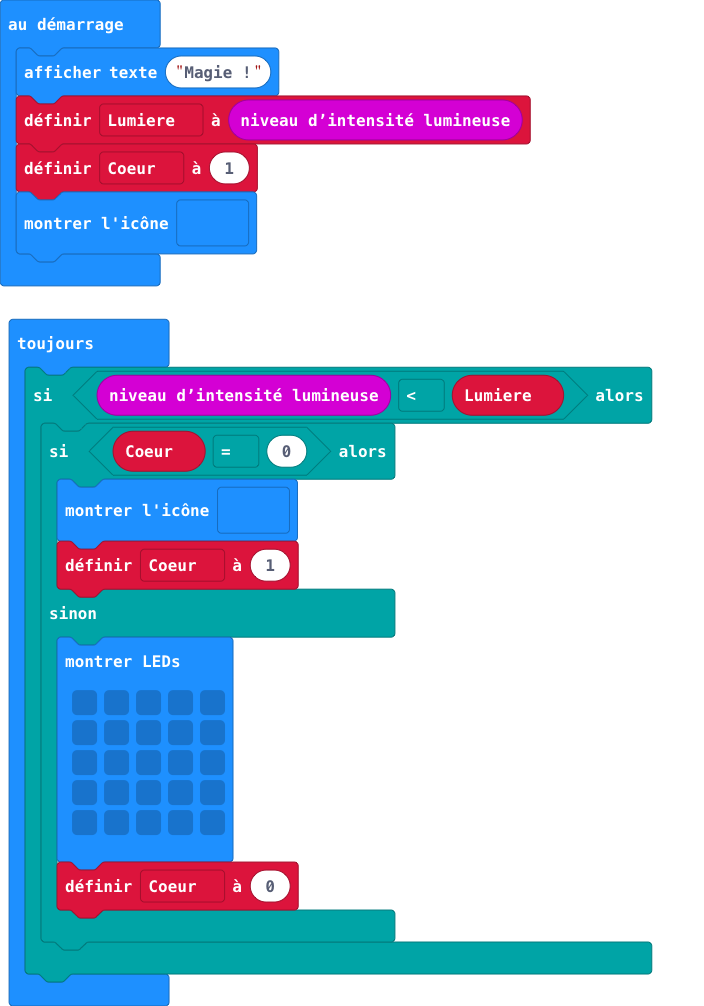
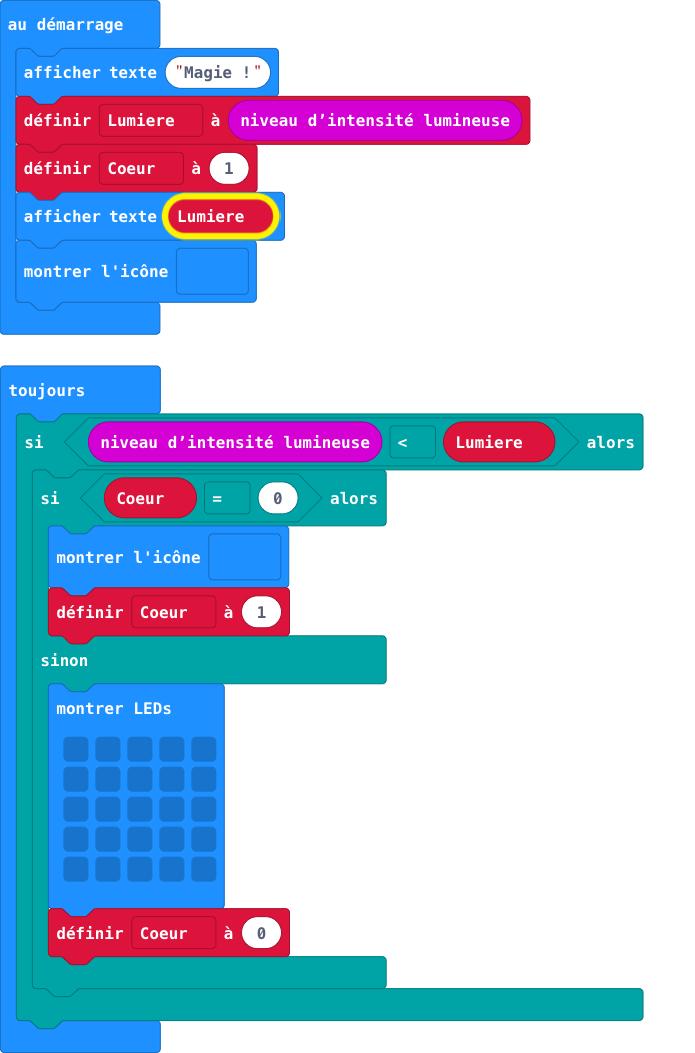
Mise à jour main.blocks, main.ts

Changed region(s): [[0.0, 0.0, 0.9367, 1.0], [0.2115, 0.9553, 0.2417, 1.0]]

diff --git a/main.ts b/main.ts
@@ -1,6 +1,7 @@
 basic.showString("Magie !")
 let Lumiere = input.lightLevel()
 let Coeur = 1
+basic.showString("" + (Lumiere))
 basic.showIcon(IconNames.Heart)
 basic.forever(function () {
     if (input.lightLevel() < Lumiere) {
